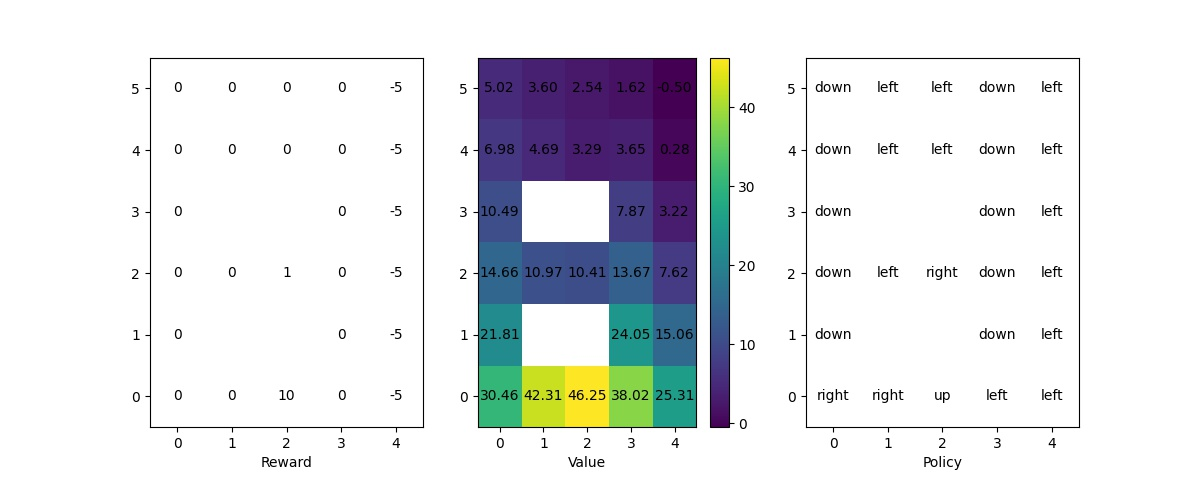
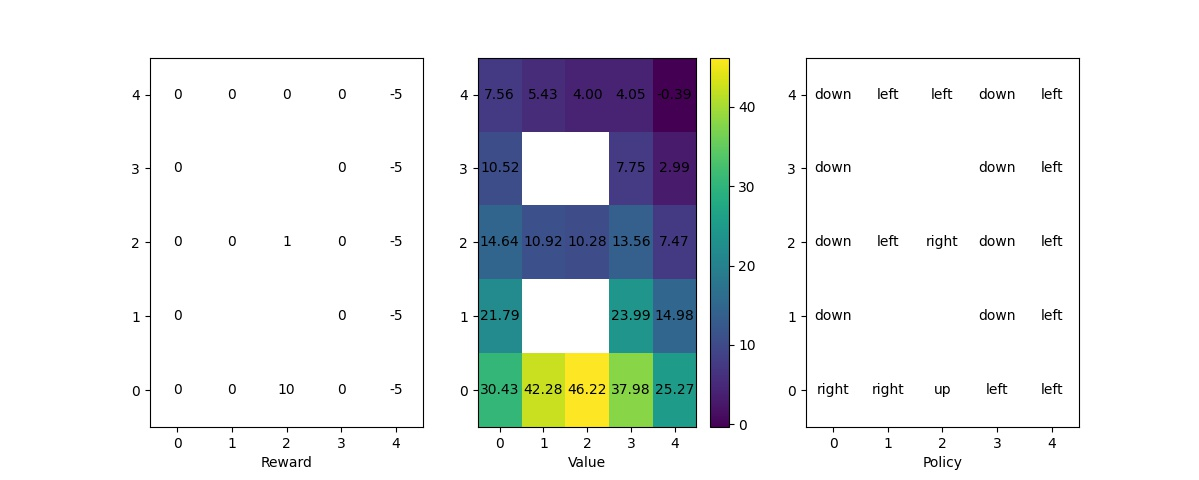
New pics

diff --git a/gridworld.py b/gridworld.py
@@ -83,7 +83,7 @@ def gwR(sn, s, a):
 
 # system parameters
 m = 5 # range of x
-n = 6 # range of y
+n = 5 # range of y
 B = [(1, 1), (2, 1), (1, 3), (2, 3)]
 S = [(i, j) for j in range(n) for i in range (m) if (i, j) not in B] # coordinates in a m-by-n rectangle
 A = ['left', 'up', 'right', 'down', 'stay']
@@ -101,8 +101,8 @@ R = gwR
 
 sim = simulator.Environment(S=S, A=A, P=P, O=None, R=R)
 sim.task(H=H, gamma=gamma)
-sim.policyIteration()
-#sim.valueIteration()
+#sim.policyIteration()
+sim.valueIteration()
 
 '''
 a snippet for evaluating the system from a initial state

diff --git a/readme.md b/readme.md
@@ -83,6 +83,16 @@ Environment.valueIteration()
 
 A method that computes value and policy based on value iteration, both of which can be accessed with ```Environment.V``` and ```Environment.pi```.
 
+# Gallery
+
+Gridworld problem solved using policy iteration:
+
+![](images/gridworld_policyIteration.jpg)
+
+Gridworld problem solved using  value iteration:
+
+![](images/gridworld_valueIteration.jpg)
+
 # Known Issues
 
 + The order of actions in the list ```A``` affects the output of either policy iteration or value iteration. This has to do with how a maximum is picked if there are multiple maxima in a list.
